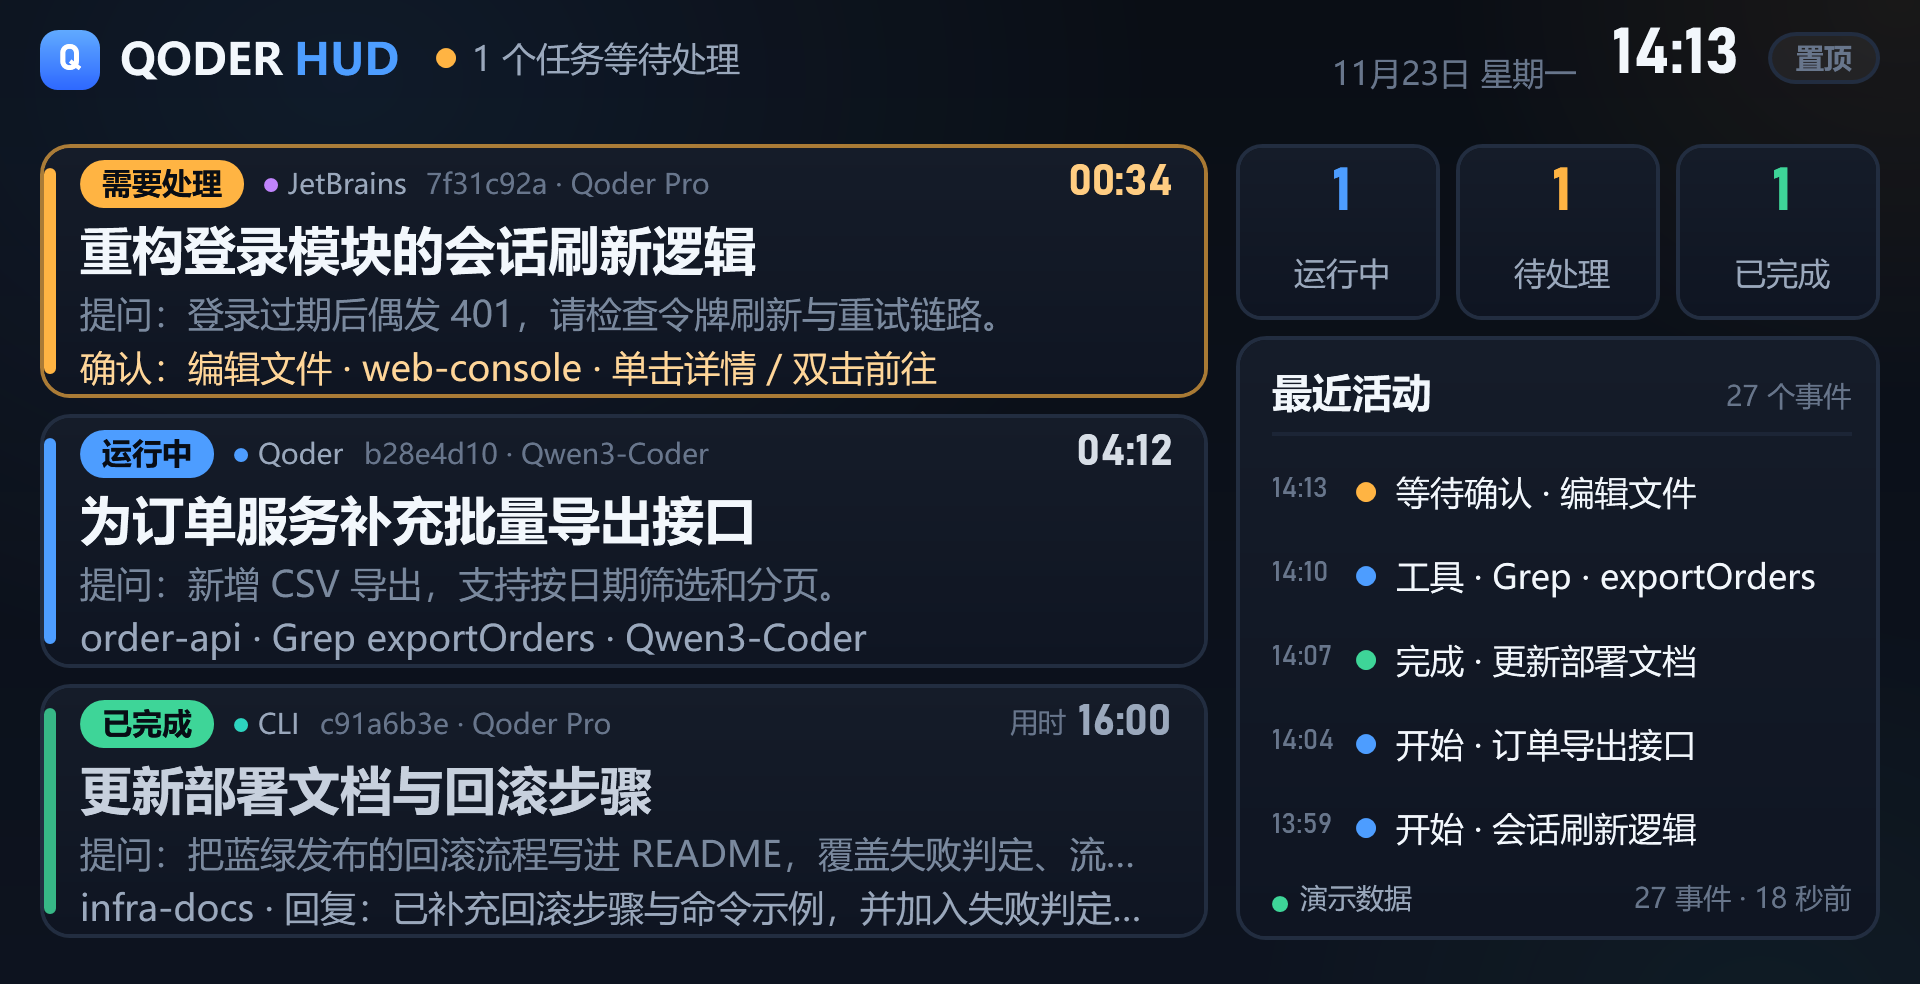
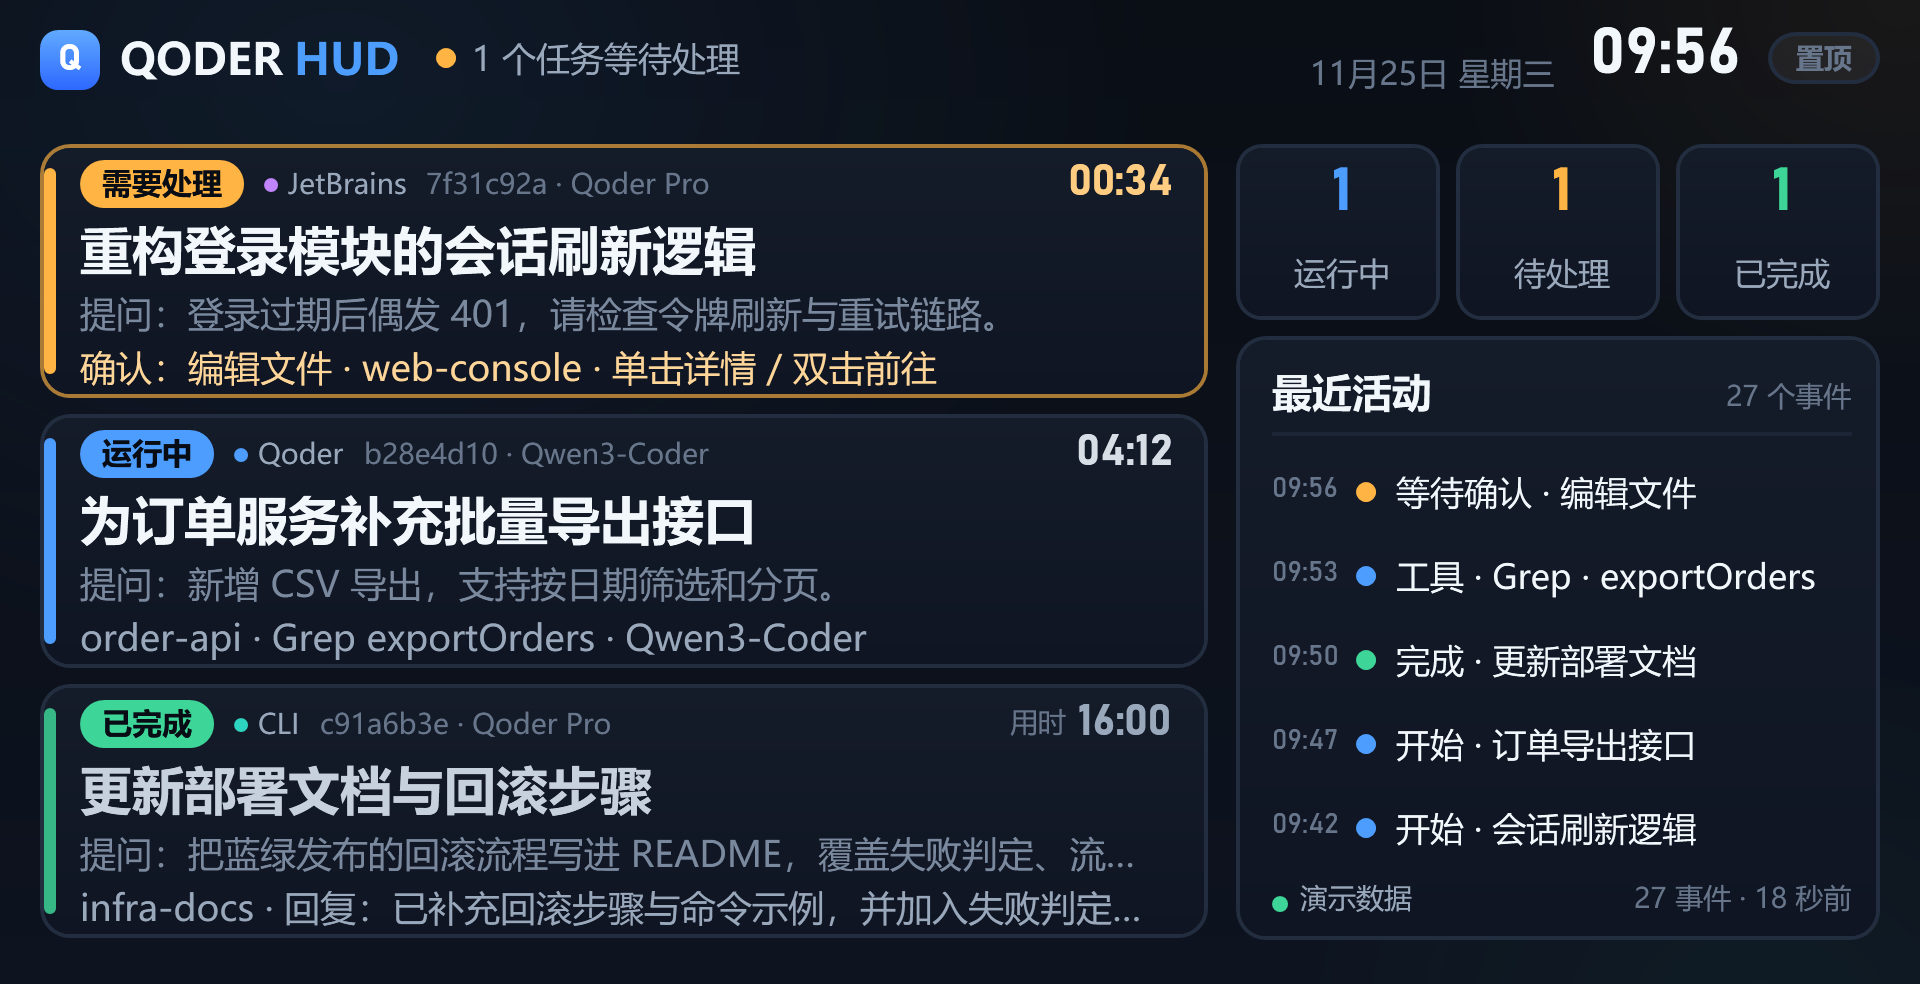
Prepare Qoder HUD 1.0.2 release
Update version metadata, changelog, usage docs, and the demo screenshot
for source-aware focus and non-modal notifications.

diff --git a/src/HudWindow.cs b/src/HudWindow.cs
@@ -603,7 +603,7 @@ namespace QoderHud
             cardsCanvas.RenderTransform = cardsShift;
             listViewport.Children.Add(cardsCanvas);
 
-            hintText = Txt("单击任务查看详情 · 双击直接前往 Qoder", 14, TextTertiary, false, false);
+            hintText = Txt("单击任务查看详情 · Desktop 双击前往 Qoder", 14, TextTertiary, false, false);
             Canvas.SetLeft(hintText, CardX + 4);
             Canvas.SetTop(hintText, ContentTop);
             hintText.Visibility = Visibility.Collapsed;
@@ -2288,7 +2288,7 @@ namespace QoderHud
             {
                 hintText.Visibility = Visibility.Visible;
                 Canvas.SetTop(hintText, ContentTop + tasks.Count * CardStep() + 4);
-                SetText(hintText, "单击任务查看详情 · 双击直接前往 Qoder");
+                SetText(hintText, "单击任务查看详情 · Desktop 双击前往 Qoder");
             }
             else hintText.Visibility = Visibility.Collapsed;
         }

diff --git a/src/Program.cs b/src/Program.cs
@@ -9,14 +9,14 @@ using Forms = System.Windows.Forms;
 [assembly: System.Reflection.AssemblyTitle("Qoder HUD")]
 [assembly: System.Reflection.AssemblyDescription("Qoder task dashboard for a secondary display")]
 [assembly: System.Reflection.AssemblyProduct("Qoder HUD")]
-[assembly: System.Reflection.AssemblyVersion("1.0.1.0")]
-[assembly: System.Reflection.AssemblyFileVersion("1.0.1.0")]
+[assembly: System.Reflection.AssemblyVersion("1.0.2.0")]
+[assembly: System.Reflection.AssemblyFileVersion("1.0.2.0")]
 
 namespace QoderHud
 {
     static class Program
     {
-        public const string Version = "1.0.1";
+        public const string Version = "1.0.2";
         static readonly object LogLock = new object();
 
         public static void WriteLog(string msg)

diff --git a/README.md b/README.md
@@ -2,7 +2,7 @@
 
 在副屏、小屏或桌面角落显示 Qoder 任务的实时仪表盘。集中展示 Qoder Desktop、JetBrains 插件和 qodercli 会话的来源、标题、状态、当前工具和最近活动。
 
-当前版本：**1.0.1** · Windows 10/11 · WPF/GPU 渲染 · MIT
+当前版本：**1.0.2** · Windows 10/11 · WPF/GPU 渲染 · MIT
 
 ![Qoder HUD 界面预览](docs/images/hud.png)
 
@@ -12,7 +12,7 @@
 
 - 来源标记：Qoder Desktop、JetBrains、CLI、未知来源。
 - 任务标题来自 Qoder 本地数据库或 JetBrains idea.log，失败时回退到用户输入。
-- 单击打开详情，双击切换到 Qoder，右键菜单不会误关任务。
+- 单击打开详情；Desktop 任务可双击切换到 Qoder，JetBrains/CLI 暂不支持自动跳转。
 - 运行 / 等待 / 完成三态，显示模型、会话、当前工具、耗时和动作记录。
 - 滚动列表带 200ms 缓出动画；托盘显示/隐藏、清空已完成、置顶开关。
 - WPF 保留模式 + GPU 合成，静态画面不整帧重绘。
@@ -30,7 +30,7 @@ HUD 可以独立运行；没有 Qoder 或 hooks 时会显示空闲界面。
 
 ## 安装
 
-1. 从 GitHub Releases 下载 `QoderHud-1.0.1.zip` 并解压。
+1. 从 GitHub Releases 下载 `QoderHud-1.0.2.zip` 并解压。
 2. 双击 `install.cmd`；需要开机自启时运行 `install.cmd -Autostart`。
 3. 重启 Qoder 或新开一个会话，让新的 hooks 生效。
 
@@ -73,8 +73,8 @@ HUD 可以独立运行；没有 Qoder 或 hooks 时会显示空闲界面。
 ## 使用
 
 - 单击任务：打开详情。
-- 双击任务：切换到 Qoder。
-- 右键任务：前往 Qoder / 关闭任务。
+- 双击 Desktop 任务：切换到 Qoder；JetBrains/CLI 会显示暂不支持提示。
+- 右键任务：前往 Qoder / 关闭任务；前往操作同样仅对 Desktop 生效。
 - 右键空白处：托盘主菜单。
 - 右上角“置顶”：切换置顶并保存。
 - 滚轮：滚动任务列表。

diff --git a/docs/development.md b/docs/development.md
@@ -169,7 +169,7 @@ bin\QoderHud.exe --screenshot-detail docs\images\hud-detail.png
 ```text
 git init -b main
 git add .
-git commit -m "Qoder HUD 1.0.1"
+git commit -m "Qoder HUD 1.0.2"
 git remote add origin https://github.com/<owner>/<repo>.git
 git push -u origin main
 ```
@@ -177,7 +177,7 @@ git push -u origin main
 5. 创建 Release。Release 正文从 `CHANGELOG.md` 对应版本段落复制：
 
 ```text
-gh release create v1.0.1 release/QoderHud-1.0.1.zip --title "Qoder HUD 1.0.1"
+gh release create v1.0.2 release/QoderHud-1.0.2.zip --title "Qoder HUD 1.0.2"
 ```
 
 发布前检查：

diff --git a/CHANGELOG.md b/CHANGELOG.md
@@ -6,6 +6,17 @@
 
 ## [Unreleased]
 
+## [1.0.2] - 2026-11-25
+
+### Changed
+
+- “前往 Qoder”仅在 Desktop 任务下执行；JetBrains 与 CLI 暂不支持自动跳转。
+- 找不到目标或来源不支持时，改用 Windows 托盘气球提示，不再弹出阻塞操作的模态窗口。
+
+### Fixed
+
+- 双击、右键菜单和详情按钮现在使用当前任务来源，不再统一聚焦 Qoder。
+
 ## [1.0.1] - 2026-11-24
 
 ### Fixed
